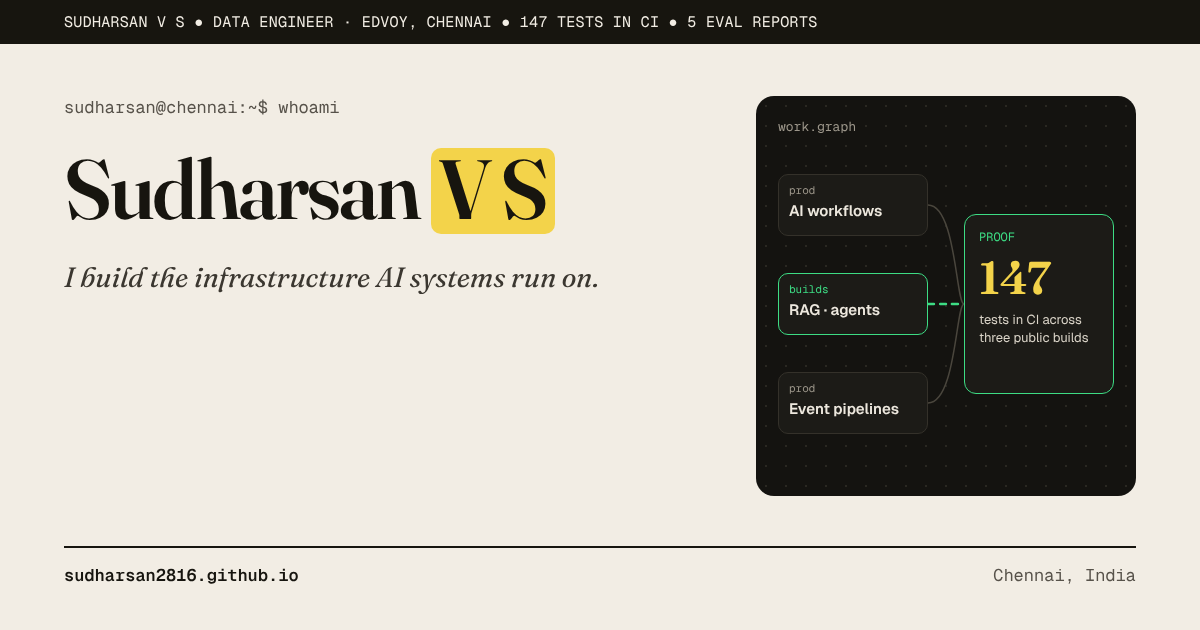
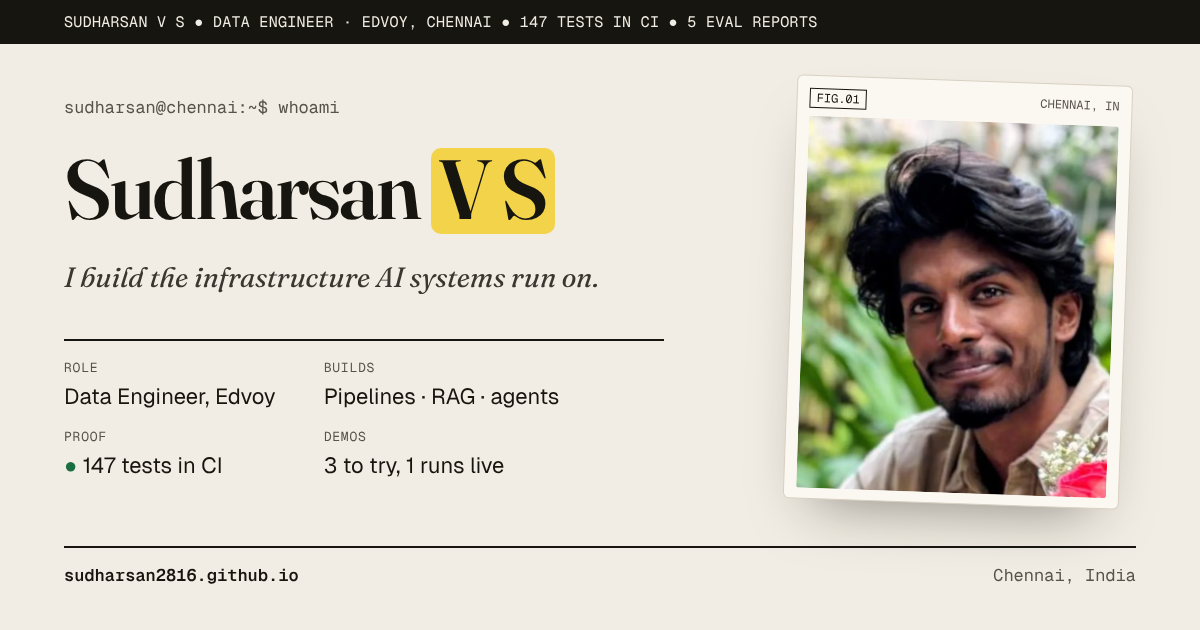
Use Sudharsan's photo: an ASCII portrait in FIG.01, with a button to show the photo
The portrait is generated from the photo and lines up with it exactly,
so the switch is a straight cross-fade. Also a new homepage share image
with the photo, and the photo URL in profile.json and the page's
structured data.

Claude-Session: https://claude.ai/code/session_01WbXuy2oMmdP3UyMJRrJ5Hr

diff --git a/index.html b/index.html
@@ -24,7 +24,7 @@
 <link rel="stylesheet" href="pw.css">
 <link rel="stylesheet" href="cmdk.css">
 <script>document.documentElement.classList.add('js');</script>
-<script type="application/ld+json">{"@context":"https://schema.org","@type":"Person","name":"Sudharsan V S","jobTitle":"Data Engineer","worksFor":{"@type":"Organization","name":"Edvoy"},"address":{"@type":"PostalAddress","addressLocality":"Chennai","addressCountry":"IN"},"url":"https://sudharsan2816.github.io/","sameAs":["https://github.com/Sudharsan2816","https://www.linkedin.com/in/sudharsan-v-s-a851a3242"],"knowsAbout":["Data engineering","Event-driven pipelines","RabbitMQ","GCP Pub/Sub","Retrieval-augmented generation","LangGraph","FastAPI","LLM evaluation"]}</script>
+<script type="application/ld+json">{"@context":"https://schema.org","@type":"Person","name":"Sudharsan V S","jobTitle":"Data Engineer","worksFor":{"@type":"Organization","name":"Edvoy"},"address":{"@type":"PostalAddress","addressLocality":"Chennai","addressCountry":"IN"},"url":"https://sudharsan2816.github.io/","image":"https://sudharsan2816.github.io/img/portrait.webp","sameAs":["https://github.com/Sudharsan2816","https://www.linkedin.com/in/sudharsan-v-s-a851a3242"],"knowsAbout":["Data engineering","Event-driven pipelines","RabbitMQ","GCP Pub/Sub","Retrieval-augmented generation","LangGraph","FastAPI","LLM evaluation"]}</script>
 </head>
 <body id="top">
 <a class="skip" href="#main">Skip to content</a>
@@ -65,21 +65,91 @@
       <div><dt>PROOF</dt><dd><span class="ok-dot" aria-hidden="true">●</span> 147 tests in CI</dd></div>
     </dl>
   </div>
-  <figure class="fig" aria-hidden="true">
-    <div class="fig-h"><b>FIG.01</b><span>MONOGRAM · ASCII</span></div>
-    <div class="fig-art"><pre>     -==--   -  ------               ---:   -
-  -*%%-   -+%% .-%%%%#       -#- .-*#+.   -+#+
- =%@@+.     -#= .+%%%%=.      -  =###...    =*
-.*@%%#..      +...#%%##.     -  .####=...    --
- *%%%%%+=...    ..+#%%#=     - . *####*-:. .
- .*%%%%%%%*+- .  ..###%#.   -   .:*#####**+=.
-   -+#%%%%%%%#..  .=%##%=.  -    . -+*#*#**#*=
-    ...-+#%%#%# . ..*####..-        . .-=*****=
-  *  . . .+%%##.   .-####+:      -=    ...+***=.
-  ##      .##%=     .*####=       *=     .:***-
-  +%*-    =#*-       -####-       **=-    +*=
-       ----            .          :    :::</pre></div>
-    <figcaption><span>svs.txt → ascii</span><span>CHENNAI, IN</span></figcaption>
+  <figure class="fig" data-fig>
+    <div class="fig-h"><b>FIG.01</b><button class="fig-sw js-only" type="button" aria-pressed="false">show photo</button><span class="no-js">B&amp;W · ASCII</span></div>
+    <div class="fig-art"><pre aria-hidden="true">
+
+
+
+
+
+
+                                    #####*
+                                 ====+###*##++     ##
+                               -=-:=%=.=+-======++*#*-
+                              =*-.+*:=-+---:-------=--
+                             +%+:-+=**==.......:--=-.-
+                            ===*-**%*-:.       ..:--++=---
+                            --+-+%%#+-              ==++**=----=++**
+                            :-=:=*+==.             .: .::-==---==---==+++==
+                            -.-::+=-.           .         .-++=::-:::----: -
+                            =... -=-                        .-=++++=+*=-----
+                         ==+-:.. .:.                          :=*++===+
+                      =--=++*=. . .                         ....:=##+=-==     +=----
+                    -..-*#**+=. .   ..                       .---::-=+++=--:----:---=
+                   :.:==:--==-..    .::.                       .:==----==++=+++=+++**
+                 =-.:=:....  ..      .:::.                  .:-:..:----::::::----::::::=
+                 -..*:  .....  ...     .:...  .               .::::..:::::::::....:::===**=+
+                 -.:-   .... .:.:..      ...                   ..............::::::::-::-=+--=
+                 :..........  ....                .:.....            ..             ...--:..:-=-
+                :...   ....                   ...:---::::...         ..          ...:..:. ..:-:-
+                .        ..           ....::.::::-===----:::...            ..:..         .--=-:-=+
+               -  .     ..           .:::::-----=======----:::.....     ... ..::-:::...-=+=+=::--=*
+               - .   ...           ..:------======+++++====--::::.....    ...::::...::------:  ..:
+               -..  ..            ..:-----======+++*****++=====----::....       .........:..::::  =
+               -                  ::-----====++++******####**+++==----::::..                   .::-
+                -                 :-----==+++++++****######%##*++=-:::::.:::...       .:.       ..:
+                 . .              :---==++****#*****#######*++=-::::-:-:...:::....   ..::      ...-
+                  .:.   ..        :---=+*+****##*****###*+=:::...:-==++++=:::---:..    ...  .  ..:-
+                  -+::..          .--==+***++*****+++++==-.. .:=====+++***++=--==::        .     ..----
+                  =---.           .-----====+++**+++++=-:.:----::-==--:-=+***+===--:      ....  . ... .+
+                   =:             .:.   .::---=+++++++=--===:......-.:::--=++*++==--:       ..:...... .
+                   =....  .        . .........:-===+***++=-:..-+:-:.-*--++++****++===:   .:----:..:    =
+                    ..=-:-..:      :-====-:..::----*%%#**=-. .-==--+++++*#######*++++=. .===-:-=- -.   -
+                    .:..-:.-.      =++=:. ...  .::-*%@%##++=-:::-----=+*#%%%#####**++*-.:+=-:-=+*:-.   -
+                     +.:.:*-       :+=: --... .: .=*%@@###***+====+**###%%%%%%###*****+:-*+:::-==+=    -
+                       ==-: ..     .+-..**+:. ...:+#@@%%%%#%@%%%#######%%@%%%%####****+:-**+==::=*=
+                           -.       =-::::----:::-*#@@%%%%%%%%######%%%%@@@%%%###*****+:-**==+==#*-   -
+                            -.      ----==--------*#@@%%%#%%%%#*+**##%%%%%%%%%###******:-**=+##*+#:   :
+                             . .    ==-------===-=*#@@@@%%#%#%%%*+++***#########*******-=*+*#*##%=
+                               ..   ==-========--=+*%@@@@@@@@@%##**+===++****##********-=*#%##%%*.  .
+                               ------==========-==-+*##%#******+##*+=-:-=+++++++*******-=+=*##+-    . .-
+                                     =-=========+==+****=...:-=#@@%%##+-:-=++=+=+******==+---.      ...-
+                                     +-===========:-=========+#%%%%%%#***=:=+++==++***+=++==-.    ... :-
+                                      ==========--::.:-:--::-+*+####+===-**-*++--+++*++=++==-  .:.:: .*
+                                       ====---==--:.  ..-=-:-==-+#**+-:. .-=**+=-+++*+==++==.   ..:.  =
+                                        ==-------:....:-+*+==---====-:. ...=**+===+=+=-=+*+=:  ....  .
+                                        -+---:......::----==----+**=-:----:=++=======--=+++=.        +
+                                         :==-  .::::-:::--=++*#%#***#**+++====-=-===-::-=+*+:     . -
+                                          .==. .::::::-++***+++**###****++++==----=--::-=***+:     -
+                                           .--..::.:::--=+++++++++++***++*+++=----=-::::+****+.   .
+                                             :-:---======--::::--==++****+++++=--=--:..-+*****=...
+                                            - .-=======-:..::..:-=+**#***+=+++=--=-:::-=******+--#
+                                             - .-======-:.:----=**###****+==++=-=-:::-=+******+=*
+                                              - :--=---:.::---=+++###++*++=--=:::.:---=+******+*
+                                                ..::--:..:::::-==========---:-...:----=+*****+*
+                                                 =-:::....:-::-:---:::::.::...:::-----=+****+#
+                                                    :..   ..........     ...:--------=+++**+#
+                                                    #.                  .-:----------=+++++%
+                                                   #*-.              ..:------------==++++
+                                                 *++==-::.       ..:-----------===-===+=*
+                                          +++====-----:==:..:..::::::::::::::::::::::::=
+                                      *+++++++=--::::::=-:.==..:::::::::::::::::::::::
+                                *******++++=+=:.:::::.-=:..=-. .::::::::::::::::::::-
+                              +***+***++++=+=-:.::::::=-:.:=:.. .:::::::::::::::::.-
+                             ****++*+++++===-::.:::::-=:..--::.  .:::::::::::::..:
+                           +*****++*+++++===-::.:::--=-:..=::::   ..::::::::::.:=+
+                         +*******+=++++=====-:...::--=-: :-:.::     ..::::::.:=+=:=
+                        +*****+*+=-++======-::..::::-=:. ---:::.     ...::.:==-:.:::-
+                       ******++*+--========-::..::::=-: .==-:::.       ....-==-:::::.-
+                      ******++++=--=-------::...::::=-. -=:-::..        ...-=---::::.-
+                      *****+++++--==-------::...:::-=:.-=-:--::..        ..=---::::::.
+                     ++****+=++=--==-----=-::...:::--.:=---:--:::.        ----:::::::.-
+                 ****+=+**+==++=--==-----=-::...:::=-:---=-..---::.       -------:::.
+                *****+==++====+=:-==-----=-::...:::=----::::::---:..     .=--===-:::-
+              +******++==+======::-=-----=-::...::-=:.  ..:::-::::--:.   :=-===--::--
+             +++****+++=-======--:-=----==-:....::==:. ...:::-::::::--:  :===------:-</pre><img class="fig-ph" src="img/portrait.webp" width="760" height="945" alt="Photo of Sudharsan V S, smiling, in a beige shirt in a garden" decoding="async"></div>
+    <figcaption><span>sudharsan.jpg → ascii</span><span>CHENNAI, IN</span></figcaption>
   </figure>
 </section>
 

diff --git a/pw.css b/pw.css
@@ -124,11 +124,16 @@ html:not(.js) .js-only { display: none !important; }
 .meta dd { margin: 4px 0 0; font-size: 15px; }
 .ok-dot { color: var(--signal-deep); }
 .fig { flex: 1 1 320px; min-width: 0; max-width: 420px; margin: 40px 0 0; transform: rotate(1.6deg); background: var(--card); border: 1px solid var(--rule); border-radius: 6px; padding: 14px 14px 12px; box-shadow: 0 24px 50px -30px rgba(23, 21, 15, .45); }
-.fig-h, .fig figcaption { display: flex; justify-content: space-between; gap: 10px; font-family: var(--mono); font-size: 11px; color: var(--graphite); }
+.fig-h, .fig figcaption { display: flex; justify-content: space-between; align-items: center; gap: 10px; font-family: var(--mono); font-size: 11px; color: var(--graphite); }
 .fig-h { margin-bottom: 10px; }
 .fig-h b { border: 1px solid var(--ink); padding: 1px 6px; color: var(--ink); font-weight: 400; }
-.fig-art { background: var(--ink); border-radius: 3px; display: flex; align-items: center; justify-content: center; padding: 34px 8px; overflow: hidden; }
-.fig-art pre { margin: 0; font-family: var(--mono); font-size: 9.5px; line-height: 1.05; letter-spacing: .3px; color: var(--board-muted); }
+.fig-art { position: relative; background: var(--ink); border-radius: 3px; overflow: hidden; container-type: inline-size; }
+.fig-art pre { margin: 0; width: 100%; font-family: var(--mono); font-size: calc(100cqw / 66); line-height: 1; letter-spacing: 0; color: var(--board-soft); white-space: pre; overflow: hidden; }
+.fig-ph { position: absolute; inset: 0; width: 100%; height: 100%; object-fit: cover; opacity: 0; transition: opacity .45s var(--ease); }
+.fig.photo .fig-ph { opacity: 1; }
+@media (hover: hover) { .fig:hover .fig-ph { opacity: 1; } }
+.fig-sw { font: 11px var(--mono); color: var(--ink); background: transparent; border: 1px solid var(--rule); border-radius: 4px; padding: 3px 8px; min-height: 28px; cursor: pointer; }
+.fig-sw:hover, .fig-sw[aria-pressed="true"] { border-color: var(--ink); }
 .fig figcaption { margin-top: 10px; font-size: 11.5px; }
 @media (max-width: 999px) {
   .hero { padding: 40px 0 64px; gap: 32px; }
@@ -145,8 +150,6 @@ html:not(.js) .js-only { display: none !important; }
   .meta { grid-template-columns: repeat(2, minmax(0, 1fr)); margin-top: 28px; gap: 14px 16px; }
   .meta dd { font-size: 14.5px; }
   .fig { max-width: 330px; padding: 12px 12px 10px; }
-  .fig-art { padding: 26px 6px; }
-  .fig-art pre { font-size: 8px; }
 }
 
 /* ---------- 01 ask the portfolio ---------- */

diff --git a/pw.js b/pw.js
@@ -277,4 +277,11 @@
   var cs = document.querySelector('[data-carousel]'); if (cs) carousel(cs);
   document.querySelectorAll('[data-arch]').forEach(arch);
   wideOpen('.xp', true);
+  document.querySelectorAll('[data-fig]').forEach(function (fig) {
+    var b = fig.querySelector('.fig-sw'); if (!b) return;
+    b.addEventListener('click', function () {
+      var on = !fig.classList.contains('photo');
+      fig.classList.toggle('photo', on); b.setAttribute('aria-pressed', on ? 'true' : 'false'); b.textContent = on ? 'show ascii' : 'show photo';
+    });
+  });
 })();
